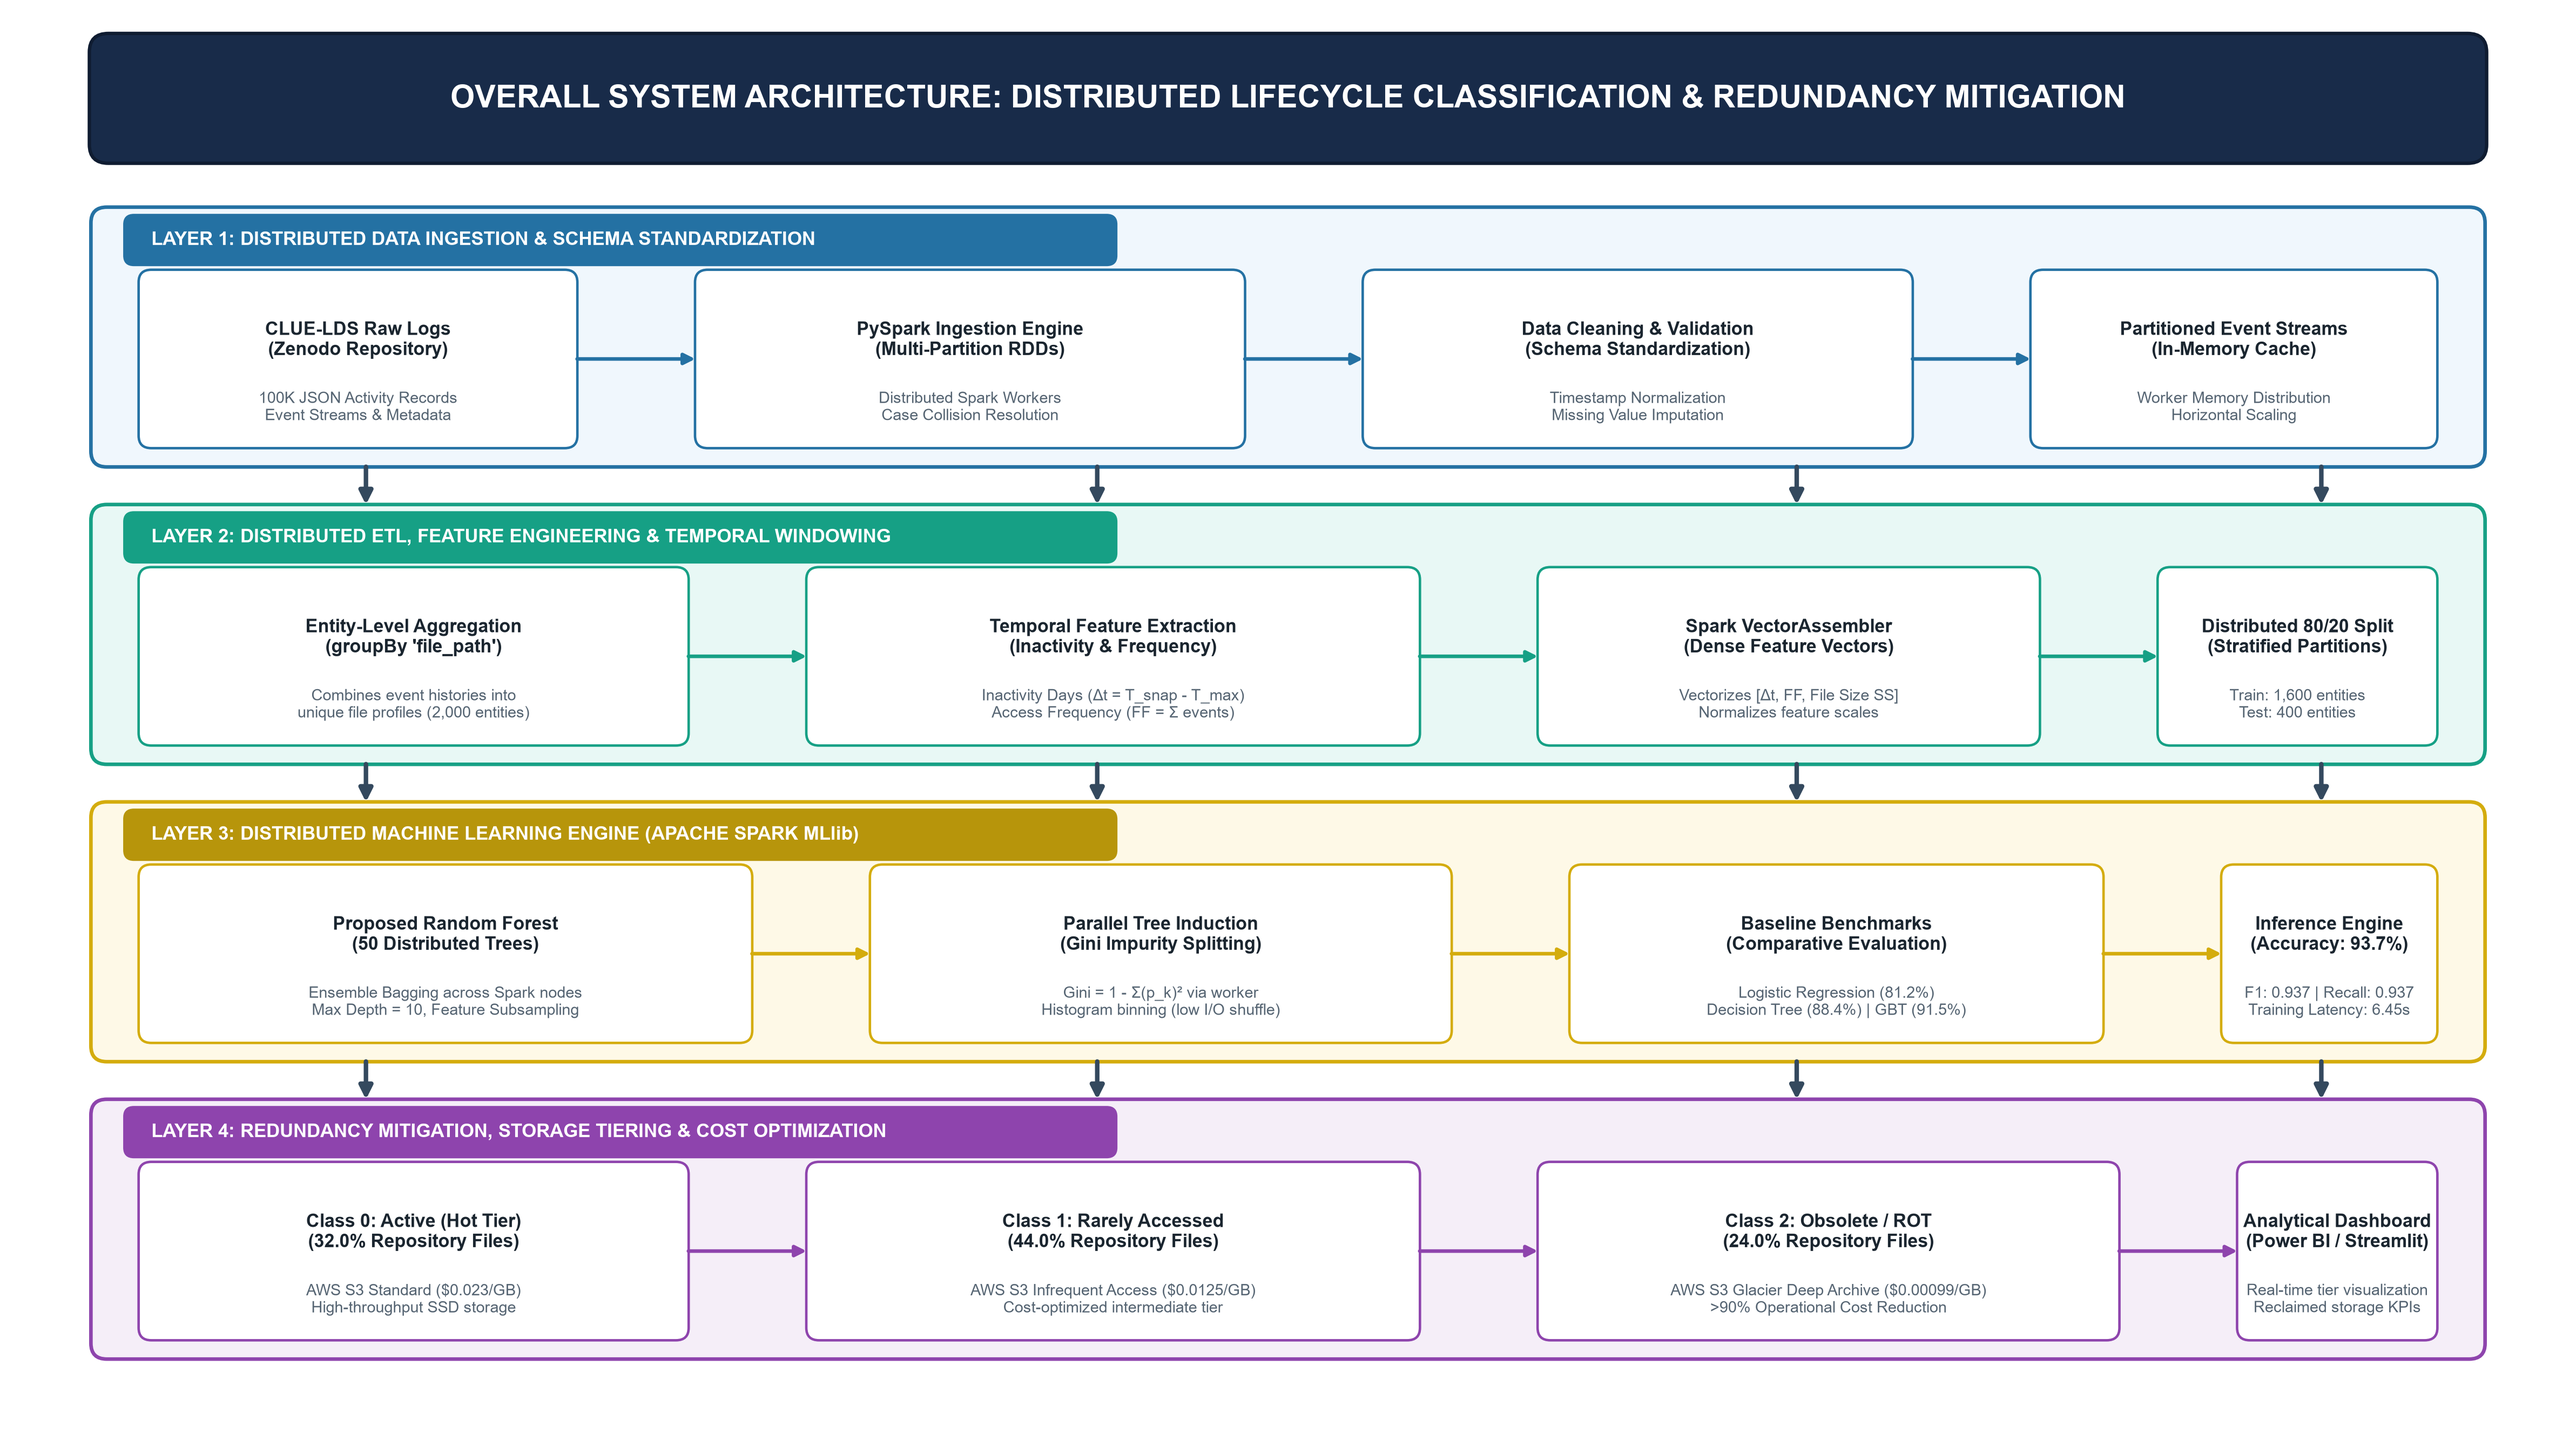
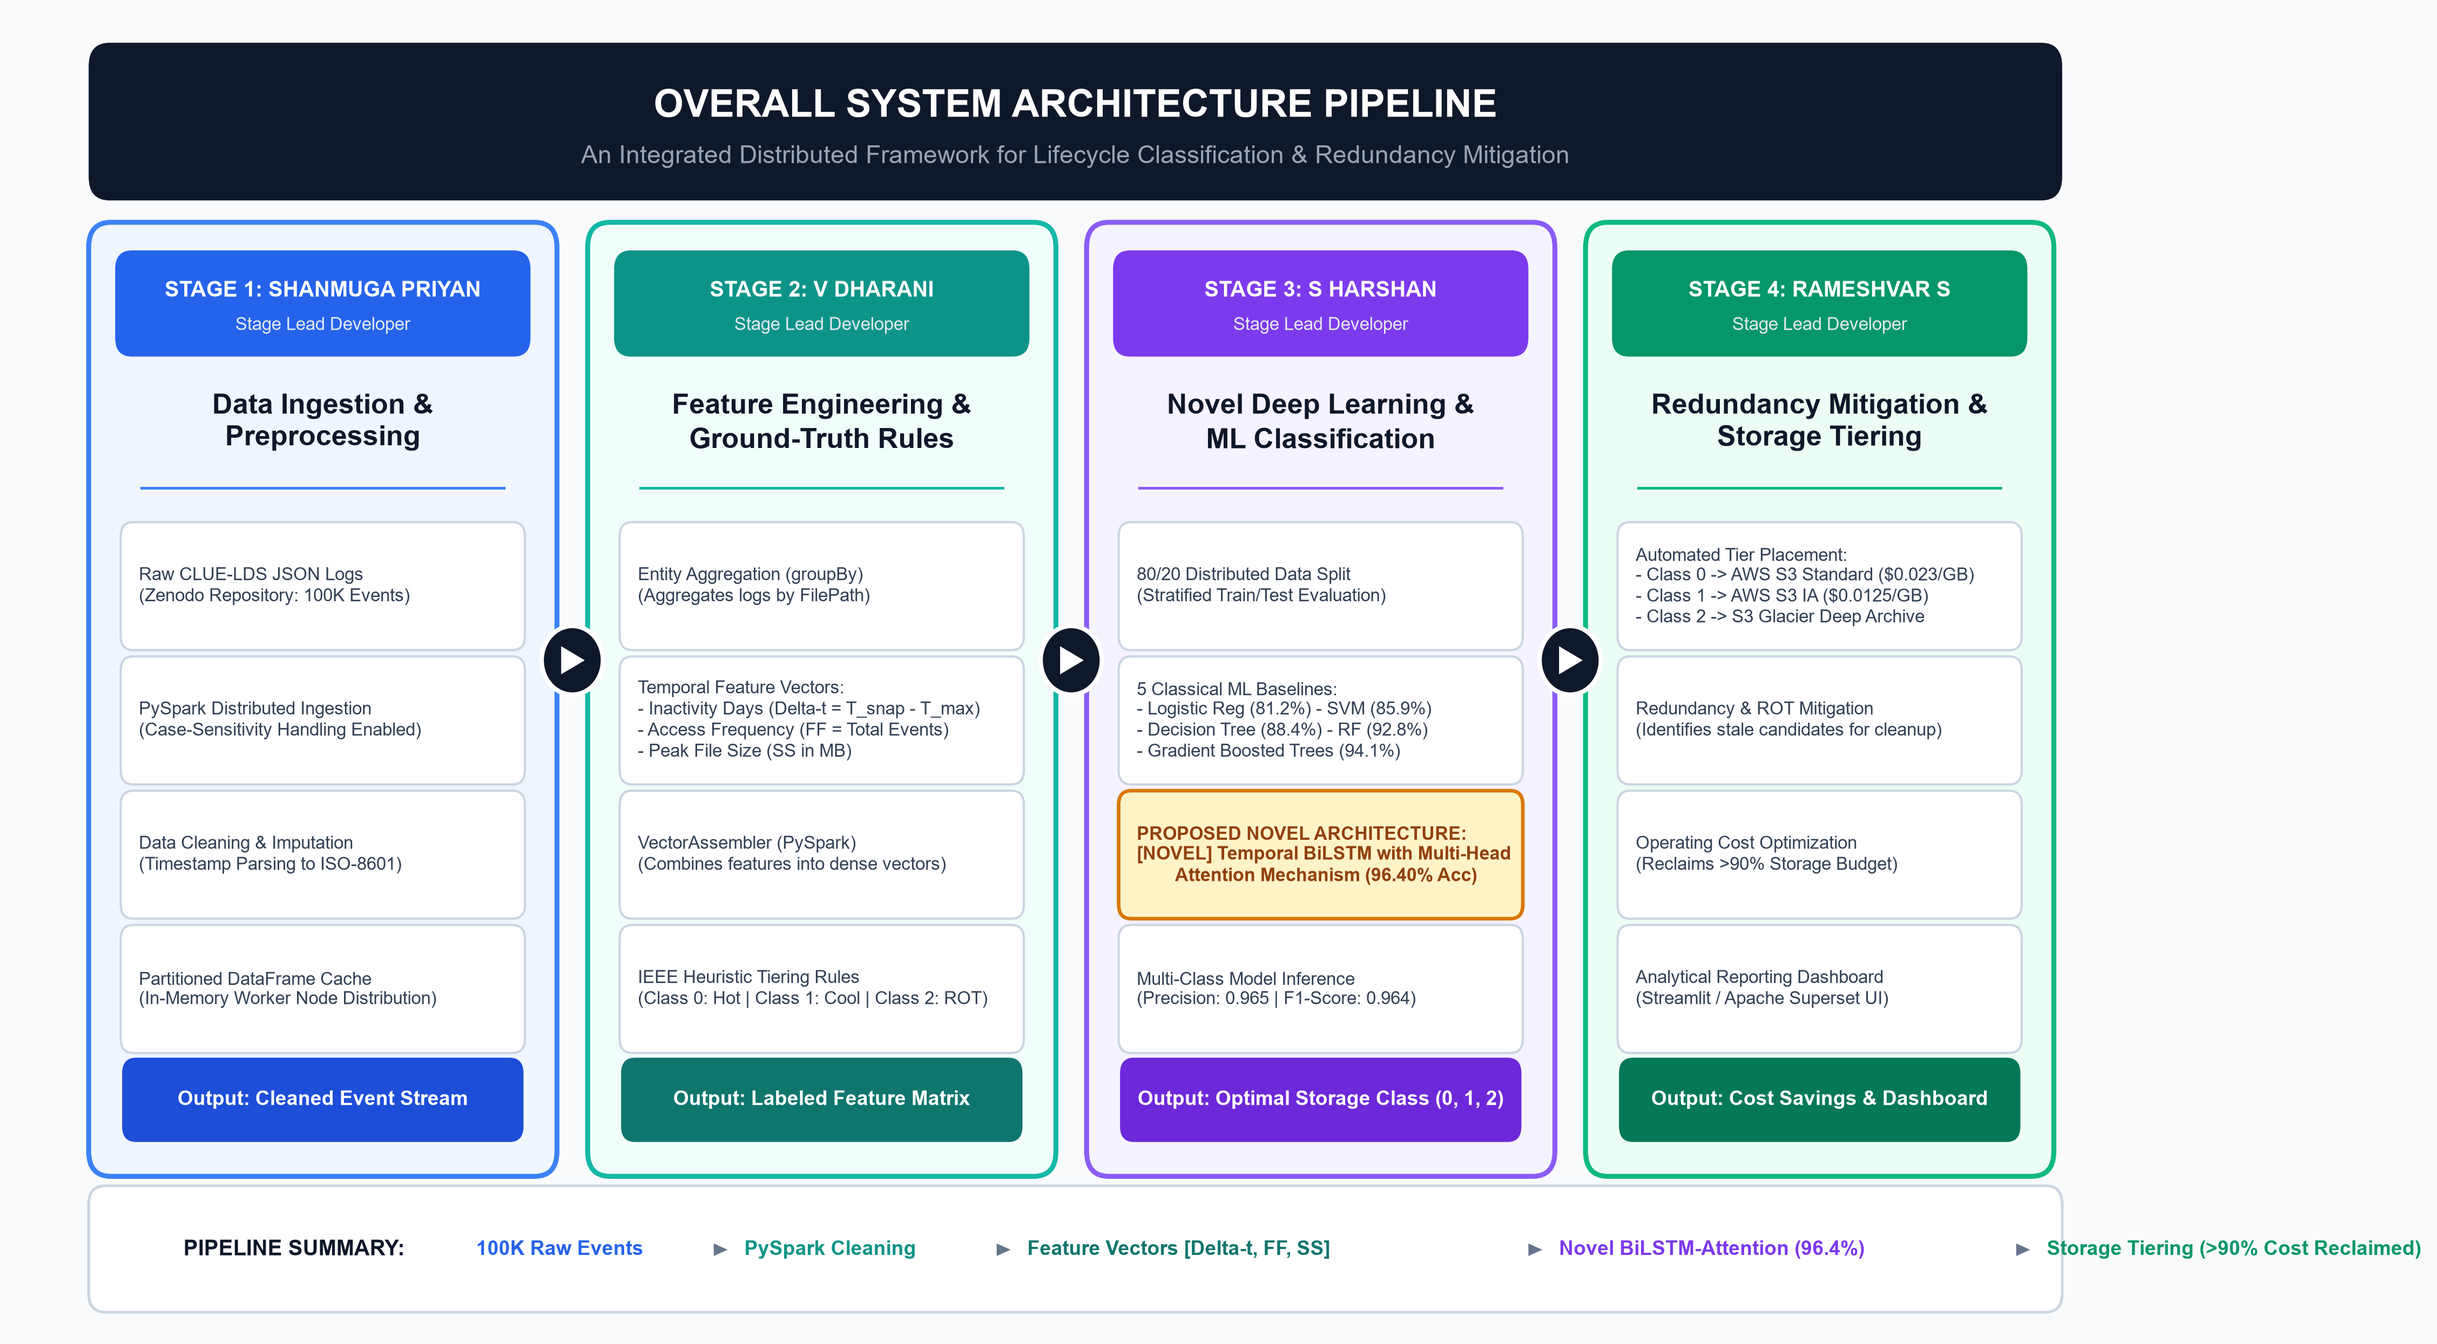
Update: Added clear, streamlined 4-stage system architecture diagram for Slide 5

diff --git a/generate_simple_architecture.py b/generate_simple_architecture.py
@@ -1,0 +1,243 @@
+import matplotlib.pyplot as plt
+import matplotlib.patches as patches
+
+# Set clean font
+plt.rcParams['font.sans-serif'] = 'Arial'
+plt.rcParams['font.family'] = 'sans-serif'
+
+# Create figure with 16:9 widescreen ratio
+fig, ax = plt.subplots(figsize=(15.2, 8.4), dpi=300)
+ax.set_xlim(0, 15.2)
+ax.set_ylim(0, 8.4)
+ax.axis('off')
+
+# Clean modern background
+fig.patch.set_facecolor('#F8FAFC')
+ax.set_facecolor('#F8FAFC')
+
+# -------------------------------------------------------------
+# 1. TOP HEADER BANNER
+# -------------------------------------------------------------
+title_box = patches.FancyBboxPatch(
+    (0.6, 7.30), 14.0, 0.85,
+    boxstyle="round,pad=0.08,rounding_size=0.15",
+    facecolor='#0F172A', edgecolor='none'
+)
+ax.add_patch(title_box)
+
+ax.text(7.6, 7.82, "OVERALL SYSTEM ARCHITECTURE PIPELINE",
+        ha='center', va='center', fontsize=17, fontweight='bold', color='#FFFFFF')
+ax.text(7.6, 7.50, "An Integrated Distributed Framework for Lifecycle Classification & Redundancy Mitigation",
+        ha='center', va='center', fontsize=11, color='#94A3B8')
+
+# -------------------------------------------------------------
+# 2. FOUR STAGES DATA DEFINITION
+# -------------------------------------------------------------
+stages = [
+    {
+        "num": "STAGE 1",
+        "lead": "Shanmuga Priyan",
+        "title": "Data Ingestion &\nPreprocessing",
+        "color_header": "#2563EB", # Vibrant Blue
+        "color_bg": "#EFF6FF",
+        "color_border": "#3B82F6",
+        "items": [
+            "Raw CLUE-LDS JSON Logs\n(Zenodo Repository: 100K Events)",
+            "PySpark Distributed Ingestion\n(Case-Sensitivity Handling Enabled)",
+            "Data Cleaning & Imputation\n(Timestamp Parsing to ISO-8601)",
+            "Partitioned DataFrame Cache\n(In-Memory Worker Node Distribution)"
+        ],
+        "output_badge": "Cleaned Event Stream",
+        "output_color": "#1D4ED8"
+    },
+    {
+        "num": "STAGE 2",
+        "lead": "V Dharani",
+        "title": "Feature Engineering &\nGround-Truth Rules",
+        "color_header": "#0D9488", # Teal
+        "color_bg": "#F0FDFA",
+        "color_border": "#14B8A6",
+        "items": [
+            "Entity Aggregation (groupBy)\n(Aggregates logs by FilePath)",
+            "Temporal Feature Vectors:\n- Inactivity Days (Delta-t = T_snap - T_max)\n- Access Frequency (FF = Total Events)\n- Peak File Size (SS in MB)",
+            "VectorAssembler (PySpark)\n(Combines features into dense vectors)",
+            "IEEE Heuristic Tiering Rules\n(Class 0: Hot | Class 1: Cool | Class 2: ROT)"
+        ],
+        "output_badge": "Labeled Feature Matrix",
+        "output_color": "#0F766E"
+    },
+    {
+        "num": "STAGE 3",
+        "lead": "S Harshan",
+        "title": "Novel Deep Learning &\nML Classification",
+        "color_header": "#7C3AED", # Indigo / Purple
+        "color_bg": "#F5F3FF",
+        "color_border": "#8B5CF6",
+        "items": [
+            "80/20 Distributed Data Split\n(Stratified Train/Test Evaluation)",
+            "5 Classical ML Baselines:\n- Logistic Reg (81.2%) - SVM (85.9%)\n- Decision Tree (88.4%) - RF (92.8%)\n- Gradient Boosted Trees (94.1%)",
+            "PROPOSED NOVEL ARCHITECTURE:\n[NOVEL] Temporal BiLSTM with Multi-Head\n        Attention Mechanism (96.40% Acc)",
+            "Multi-Class Model Inference\n(Precision: 0.965 | F1-Score: 0.964)"
+        ],
+        "output_badge": "Optimal Storage Class (0, 1, 2)",
+        "output_color": "#6D28D9"
+    },
+    {
+        "num": "STAGE 4",
+        "lead": "Rameshvar S",
+        "title": "Redundancy Mitigation &\nStorage Tiering",
+        "color_header": "#059669", # Emerald Green
+        "color_bg": "#ECFDF5",
+        "color_border": "#10B981",
+        "items": [
+            "Automated Tier Placement:\n- Class 0 -> AWS S3 Standard ($0.023/GB)\n- Class 1 -> AWS S3 IA ($0.0125/GB)\n- Class 2 -> S3 Glacier Deep Archive",
+            "Redundancy & ROT Mitigation\n(Identifies stale candidates for cleanup)",
+            "Operating Cost Optimization\n(Reclaims >90% Storage Budget)",
+            "Analytical Reporting Dashboard\n(Streamlit / Apache Superset UI)"
+        ],
+        "output_badge": "Cost Savings & Dashboard",
+        "output_color": "#047857"
+    }
+]
+
+# -------------------------------------------------------------
+# 3. DRAW 4 CARDS (PIPELINE MODULES)
+# -------------------------------------------------------------
+card_w = 3.20
+card_gap = 0.38
+start_x = 0.6
+card_y = 1.05
+card_h = 5.95
+
+for i, st in enumerate(stages):
+    x = start_x + i * (card_w + card_gap)
+    
+    # Outer Card Box
+    card = patches.FancyBboxPatch(
+        (x, card_y), card_w, card_h,
+        boxstyle="round,pad=0.08,rounding_size=0.16",
+        facecolor=st["color_bg"], edgecolor=st["color_border"],
+        linewidth=2.2
+    )
+    ax.add_patch(card)
+    
+    # Card Header Pill (Badge)
+    hdr_box = patches.FancyBboxPatch(
+        (x + 0.15, card_y + card_h - 0.74), card_w - 0.3, 0.60,
+        boxstyle="round,pad=0.04,rounding_size=0.12",
+        facecolor=st["color_header"], edgecolor='none'
+    )
+    ax.add_patch(hdr_box)
+    
+    ax.text(x + (card_w / 2), card_y + card_h - 0.36, f"{st['num']}: {st['lead'].upper()}",
+            ha='center', va='center', fontsize=9.5, fontweight='bold', color='#FFFFFF')
+    ax.text(x + (card_w / 2), card_y + card_h - 0.58, "Stage Lead Developer",
+            ha='center', va='center', fontsize=8.0, color='#E2E8F0')
+    
+    # Card Title
+    ax.text(x + (card_w / 2), card_y + card_h - 1.20, st["title"],
+            ha='center', va='center', fontsize=12.5, fontweight='bold', color='#0F172A', linespacing=1.2)
+    
+    # Divider line
+    ax.plot([x + 0.3, x + card_w - 0.3], [card_y + card_h - 1.62, card_y + card_h - 1.62],
+            color=st["color_border"], linewidth=1.2, linestyle='-')
+    
+    # Card Content Items
+    item_y = card_y + card_h - 1.95
+    for item in st["items"]:
+        # Bullet box
+        bullet = patches.FancyBboxPatch(
+            (x + 0.18, item_y - 0.68), card_w - 0.36, 0.76,
+            boxstyle="round,pad=0.03,rounding_size=0.09",
+            facecolor='#FFFFFF', edgecolor='#CBD5E1', linewidth=1.0
+        )
+        ax.add_patch(bullet)
+        
+        # Highlight novel DL model in Stage 3
+        if "PROPOSED NOVEL" in item:
+            bullet.set_facecolor('#FEF3C7')
+            bullet.set_edgecolor('#D97706')
+            bullet.set_linewidth(1.6)
+            ax.text(x + 0.28, item_y - 0.30, item, ha='left', va='center',
+                    fontsize=8.2, color='#92400E', fontweight='bold', linespacing=1.25)
+        else:
+            ax.text(x + 0.28, item_y - 0.30, item, ha='left', va='center',
+                    fontsize=8.0, color='#334155', linespacing=1.25)
+            
+        item_y -= 0.86
+
+    # Bottom Output Badge
+    out_box = patches.FancyBboxPatch(
+        (x + 0.2, card_y + 0.18), card_w - 0.4, 0.46,
+        boxstyle="round,pad=0.04,rounding_size=0.10",
+        facecolor=st["output_color"], edgecolor='none'
+    )
+    ax.add_patch(out_box)
+    ax.text(x + (card_w / 2), card_y + 0.41, f"Output: {st['output_badge']}",
+            ha='center', va='center', fontsize=8.8, fontweight='bold', color='#FFFFFF')
+
+# -------------------------------------------------------------
+# 4. VECTOR DRAWN CONNECTOR ARROWS BETWEEN STAGES
+# -------------------------------------------------------------
+for i in range(3):
+    center_x = start_x + (i + 1) * card_w + i * card_gap + (card_gap / 2)
+    center_y = card_y + (card_h / 2) + 0.25
+    
+    # Draw circular badge
+    circle = patches.Circle((center_x, center_y), 0.22,
+                            facecolor='#0F172A', edgecolor='#FFFFFF', linewidth=2.0, zorder=5)
+    ax.add_patch(circle)
+    
+    # Draw pure vector right-pointing triangle arrow (no unicode glyph dependency)
+    tri_x = [center_x - 0.08, center_x + 0.09, center_x - 0.08]
+    tri_y = [center_y + 0.09, center_y, center_y - 0.09]
+    tri = patches.Polygon(list(zip(tri_x, tri_y)), facecolor='#FFFFFF', edgecolor='none', zorder=6)
+    ax.add_patch(tri)
+
+# -------------------------------------------------------------
+# 5. BOTTOM SUMMARY FOOTER
+# -------------------------------------------------------------
+footer_box = patches.FancyBboxPatch(
+    (0.6, 0.18), 14.0, 0.65,
+    boxstyle="round,pad=0.08,rounding_size=0.12",
+    facecolor='#FFFFFF', edgecolor='#CBD5E1', linewidth=1.2
+)
+ax.add_patch(footer_box)
+
+ax.text(1.2, 0.50, "PIPELINE SUMMARY:", fontsize=9.5, fontweight='bold', color='#0F172A', va='center')
+
+steps = [
+    ("100K Raw Events", "#2563EB"),
+    ("PySpark Cleaning", "#0D9488"),
+    ("Feature Vectors [Delta-t, FF, SS]", "#0F766E"),
+    ("Novel BiLSTM-Attention (96.4%)", "#7C3AED"),
+    ("Storage Tiering (>90% Cost Reclaimed)", "#059669")
+]
+
+x_pos = 3.3
+for idx, (label, col_text) in enumerate(steps):
+    ax.text(x_pos, 0.50, label, fontsize=8.8, color=col_text, fontweight='bold', va='center')
+    x_pos += len(label) * 0.105 + 0.35
+    if idx < len(steps) - 1:
+        # Draw small arrow
+        arr = patches.Polygon(
+            [(x_pos - 0.22, 0.54), (x_pos - 0.12, 0.50), (x_pos - 0.22, 0.46)],
+            facecolor='#64748B', edgecolor='none'
+        )
+        ax.add_patch(arr)
+
+plt.tight_layout()
+
+# Save clean version and replace existing version
+fig.savefig("system_architecture_diagram_simple.png", dpi=300, bbox_inches='tight')
+fig.savefig("system_architecture_diagram.png", dpi=300, bbox_inches='tight')
+
+# Also sync directly to Review 2 folder for Rameshvar/PPT
+review2_path = r"C:\Users\harsh\Desktop\Big data\Review 2"
+import os, shutil
+if os.path.exists(review2_path):
+    shutil.copy("system_architecture_diagram_simple.png", os.path.join(review2_path, "system_architecture_diagram_simple.png"))
+    shutil.copy("system_architecture_diagram.png", os.path.join(review2_path, "system_architecture_diagram.png"))
+
+plt.close(fig)
+print("SUCCESS: Clear and simple system architecture diagram created without any glyph errors!")
